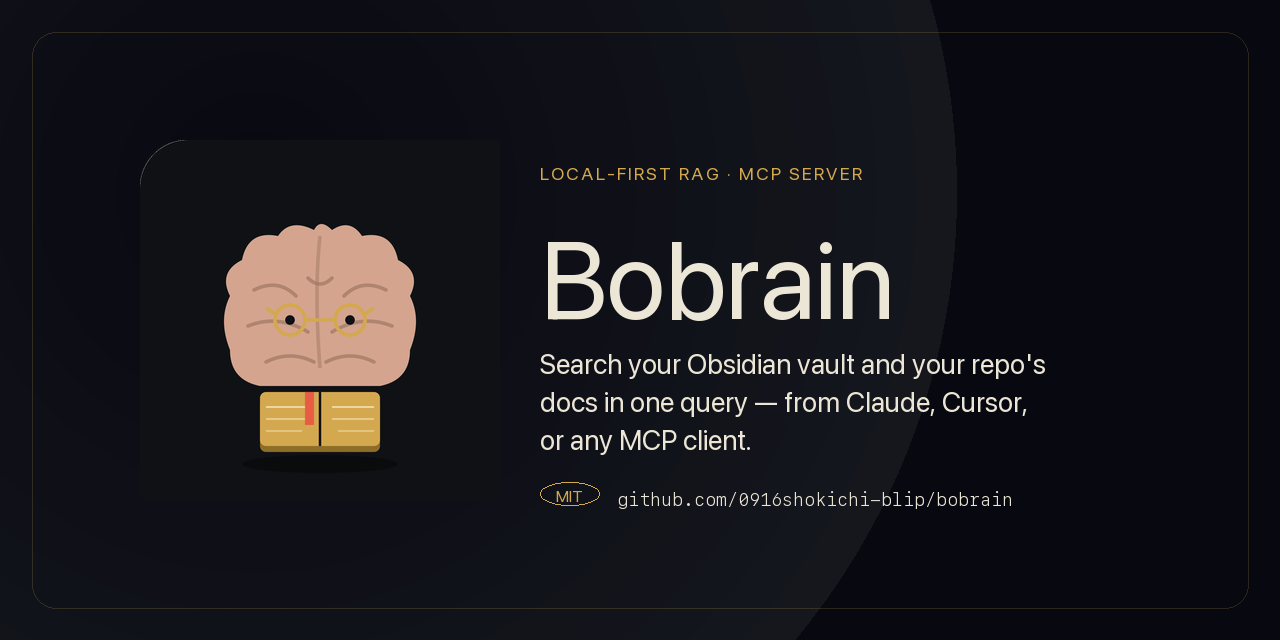
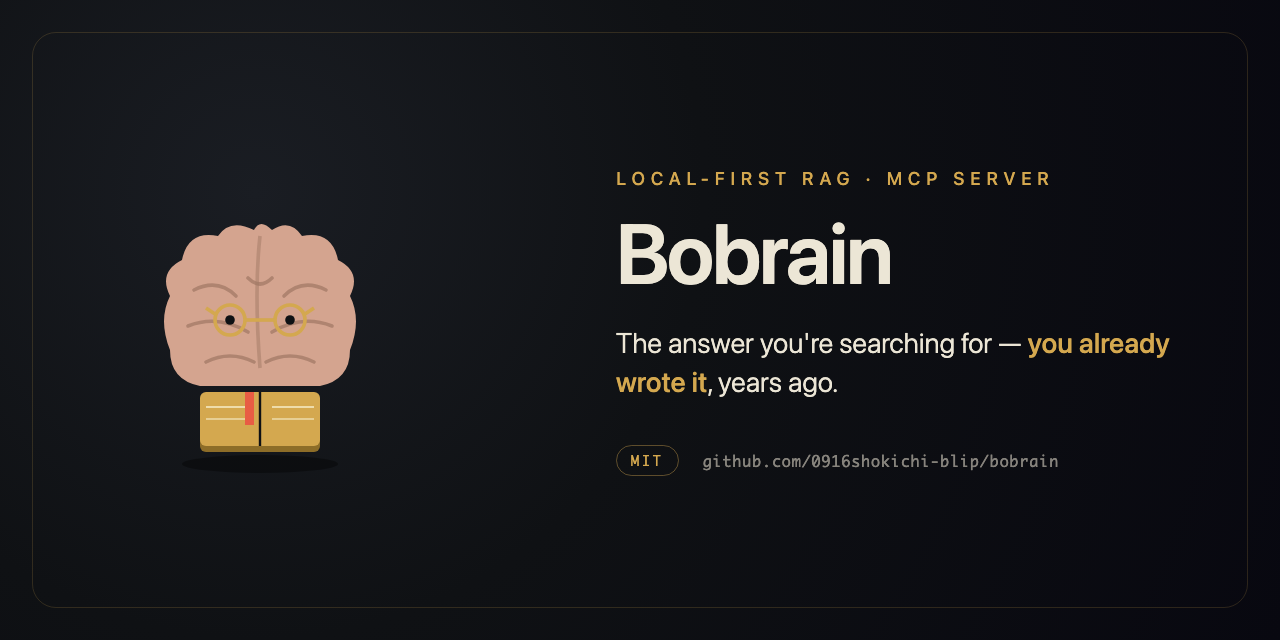
chore(og): sync og.png tagline to LP/README killer message (#20)
og.html / og.png に残っていた 4/27 時点の機能羅列コピー
「Search your Obsidian vault and your repo's docs in one query — from Claude, Cursor, or any MCP client.」を、
LP (docs/index.html) と README で確定済みの killer message
「The answer you're searching for — you already wrote it, years ago.」に同期。

anti_patterns カテゴリ 4 (便利ツール化) を踏んでいた旧コピー
を是正、Show HN 投稿前の最 surface 整合。

diff --git a/assets/og.html b/assets/og.html
@@ -135,7 +135,7 @@
   <div class="copy">
     <div class="eyebrow">Local-first RAG · MCP server</div>
     <h1><span class="strong">Bobrain</span></h1>
-    <p class="tagline">Search your <em>Obsidian vault</em> and your <em>repo's docs</em> in one query — from Claude, Cursor, or any MCP client.</p>
+    <p class="tagline">The answer you're searching for — <em>you already wrote it</em>, years ago.</p>
     <div class="meta">
       <span class="pill">MIT</span>
       <span>github.com/0916shokichi-blip/bobrain</span>
